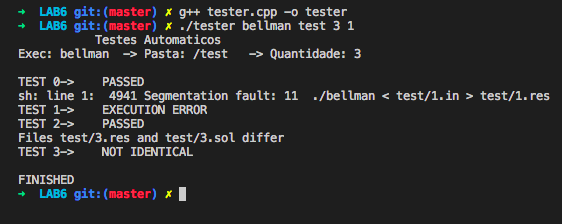
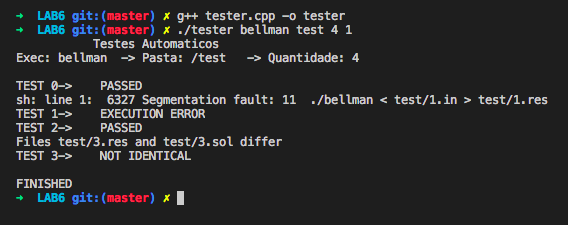
Update project

Changed region(s): [[0.0302, 0.3438, 0.9982, 0.7188], [0.0302, 0.0312, 0.6655, 0.2812], [0.0302, 0.7812, 0.3327, 0.9062]]

diff --git a/tester.cpp b/tester.cpp
@@ -13,7 +13,7 @@ void help()
     cout << "           ./tester exec pasta N D" << endl << endl;
     cout << "               exec -> Arquivo executavel." << endl;
     cout << "               pasta -> Diretorio de arquivos de entrada e saida (.res, .sol)." << endl;
-    cout << "               N -> Numero de testes de 0 a N." << endl;
+    cout << "               N -> Numero de testes." << endl;
     cout << "               D -> Remove arquivos de resposta se True." << endl;
     cout << endl << "   Os arquivos de entrada e saida devem esta nomedados da seguinte maneira:" << endl;
     cout << "           0.in   -   0.sol" << endl;
@@ -41,7 +41,7 @@ int main(int argc, char *argv[])
             string exec = string(argv[1]);
             string pasta = string(argv[2]);
 
-            for(int i = 0; i <= atoi(argv[3]); i++)
+            for(int i = 0; i < atoi(argv[3]); i++)
             {
                 string ind = to_string(i);
                 string cexec = "./" + exec +  " < " + pasta + "/" + ind + ".in" + " > " + pasta + "/" + ind + ".res" ;
